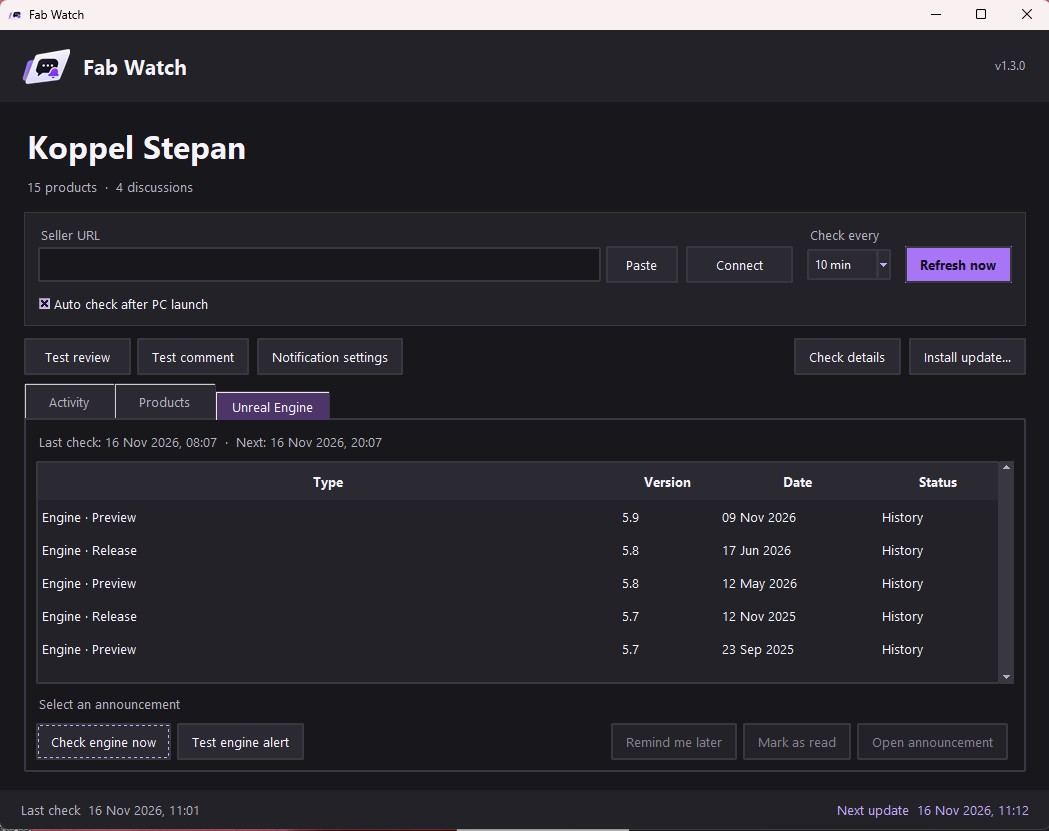
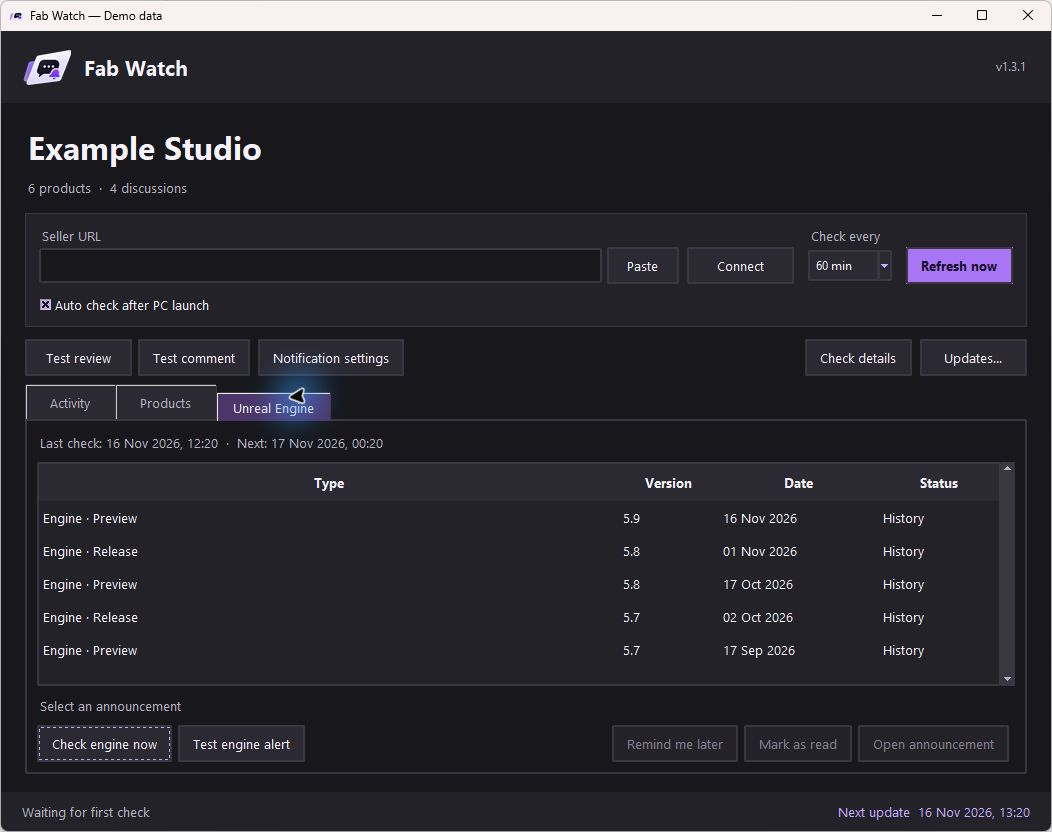
Replace personal screenshots with reproducible synthetic demo views

diff --git a/tools/demo.py b/tools/demo.py
@@ -1,0 +1,93 @@
+"""Real UI with synthetic temporary data for documentation; no scheduler/network work."""
+from datetime import datetime, timedelta, timezone
+from pathlib import Path
+import sys
+from tempfile import TemporaryDirectory
+import tkinter as tk
+from unittest.mock import patch
+
+sys.path.insert(0, str(Path(__file__).resolve().parents[1]))
+import app
+import runtime as rt
+import sources
+import updates
+from storage import Store, encode
+from notification_settings import open_settings
+
+
+def demo():
+    with TemporaryDirectory(prefix="fabwatch-demo-") as folder, \
+            patch.object(rt, "ROOT", Path(folder)), patch.object(rt, "scheduler"), \
+            patch.object(rt, "configure_engine"), patch.object(rt, "check"), \
+            patch.object(rt, "check_engine"), patch.object(updates, "latest", return_value=None), \
+            patch.object(sources, "resolve_seller", side_effect=ValueError("Demo mode does not connect to sources")):
+        stamp = datetime.now(timezone.utc)
+        seller = {"id": "demo-studio", "name": "Example Studio", "url": "https://www.fab.com/sellers/Example"}
+        rt.save_settings({"seller": seller, "interval": 60, "auto_check_after_launch": True,
+                          "schedule_anchor": stamp.isoformat()})
+        db = Store(rt.initialize(seller) / "monitor.sqlite")
+        titles = ["Modular Forest Village", "Stylized Adventure Props", "Dynamic Weather Toolkit",
+                  "Sci-Fi Interior Kit", "Procedural Terrain Materials", "Fantasy Environment Bundle"]
+        with db.db:
+            for i, title in enumerate(titles):
+                uid = f"sample-{i}"
+                db.db.execute("INSERT INTO products VALUES (?,?)", (uid, encode({
+                    "uid": uid, "title": title, "kind": "listings", "url": "https://www.fab.com"})))
+                if i < 4:
+                    db.set_source(uid, "forum_link", {"thread_id": i + 1})
+            db.set_meta("last_run_at", stamp.isoformat())
+            db.set_meta("last_success_at", stamp.isoformat())
+            for i, (kind, title, author, content, state) in enumerate([
+                ("new_review", titles[0], "Sample Buyer 01", "Great modular kit. Easy to customize and well organized!", "unread"),
+                ("new_comment", titles[2], "Sample Buyer 02", "Does the weather system support multiplayer projects?", "unread"),
+                ("new_comment", titles[2], "Example Studio", "Yes! The included guide explains the multiplayer setup.", "seller"),
+                ("new_review", titles[1], "Sample Buyer 03", "A useful collection for our prototype.", "read"),
+                ("new_comment", titles[3], "Sample Buyer 04", "Thanks for the material examples.", "history"),
+                ("new_review", titles[4], "Sample Buyer 05", "Clear documentation and flexible controls.", "history"),
+            ]):
+                event = {"kind": kind, "product": title, "author": author,
+                         "created_at": (stamp - timedelta(days=i)).isoformat(),
+                         "url": "https://www.fab.com", "silent": state == "history"}
+                if state == "seller":
+                    event.update(author_id=10, owner_id=10)
+                if kind == "new_review":
+                    event["review"] = {"content": content, "title": "Sample review", "rating": 5}
+                else:
+                    event["content_html"] = "<p>" + content + "</p>"
+                db.event(f"demo-{i}", event)
+            db.confirm_review("demo-3")
+        db.db.close()
+        engine = rt.ROOT / "engine"
+        engine.mkdir()
+        db = Store(engine / "monitor.sqlite", create=True)
+        with db.db:
+            db.set_meta("engine_last_success", stamp.isoformat())
+            for kind in ("engine_release", "engine_preview"):
+                db.set_meta(kind, {"checked": stamp.timestamp()})
+            for i, (kind, number) in enumerate([
+                ("engine_preview", "5.9"), ("engine_release", "5.8"),
+                ("engine_preview", "5.8"), ("engine_release", "5.7"), ("engine_preview", "5.7")]):
+                db.event(f"engine-demo-{i}", {"kind": kind, "version": number,
+                    "created_at": (stamp - timedelta(days=i*15)).isoformat(), "silent": True,
+                    "title": "Sample Unreal Engine announcement", "url": "https://forums.unrealengine.com",
+                    "message": "Demo data: a new version of Unreal Engine is available."})
+        db.db.close()
+        root = tk.Tk()
+        view = app.App(root)
+        root.title("Fab Watch — Demo data")
+        root.geometry("1050x800+200+120")
+        view.feed.selection_set("demo-0")
+        view.select()
+        mode = sys.argv[1] if len(sys.argv) > 1 else "main"
+        if mode in ("engine", "notifications"):
+            view.tabs.select(2)
+        if mode == "notifications":
+            def dialog():
+                open_settings(root, view.config, lambda values: None)
+            root.after(500, dialog)
+        root.after(600000, root.destroy)
+        root.mainloop()
+
+
+if __name__ == "__main__":
+    demo()

diff --git a/docs/RELEASING.md b/docs/RELEASING.md
@@ -37,8 +37,8 @@ publication; fix a bad release with a new version, not silent binary replacement
 Check the anonymous release/download URLs, asset digest and README links/screenshots.
 Exercise the updater against the real metadata without executing a downloaded file
 unless installation is part of the requested work. Recheck the repository contains
-no local data or machine paths. The supplied screenshots and author credit are
-intentional public examples, not secrets or runtime defaults.
+no local data or machine paths. Screenshots use synthetic examples. Author credits are intentional attribution,
+not runtime defaults.
 
 ## Maintenance routine
 
@@ -54,7 +54,7 @@ fake reviews, keyword spam or unsupported feature claims.
 ## License provenance
 
 MIT was selected by the project owner for public distribution. Original project
-assets are included; supplied screenshots show the author's public seller activity.
+assets are included; documentation screenshots show synthetic demo activity.
 Third-party text/trademarks retain their owners' rights. Runtime notices are copied
 by `tools/package_notices.py`. `licenses/Tcl-8.6.12.txt` is the unmodified license from
 https://raw.githubusercontent.com/tcltk/tcl/core-8-6-12/license.terms, matching the

diff --git a/docs/DEVELOPMENT.md b/docs/DEVELOPMENT.md
@@ -76,3 +76,12 @@ Windows CI builds before testing so the package regression is not skipped. The
 tests briefly create Tk windows/tray icons and do not install the app. Hosted CI
 coverage is not a manual clean-Windows installation test. Build/runtime license
 notices are collected by tools/package_notices.py. See [releasing](RELEASING.md).
+
+## Documentation screenshots
+
+Run `python tools/demo.py` for a real UI with synthetic Example Studio products,
+reviews and comments in a temporary directory. Network collection and scheduler
+mutations are mocked. The process does not start the reminder worker or tray.
+Optional arguments `engine` and `notifications` select those views. Closing the
+window removes temporary state. Capture the actual window with your screenshot tool.
+The demo data is not loaded by the packaged app and is never posted publicly.

diff --git a/docs/PRIVACY.md b/docs/PRIVACY.md
@@ -17,8 +17,8 @@ Local data is in `%LOCALAPPDATA%\FabWatch`:
 - `update-state.json` and `updates/`: app version-check cache and downloaded installers.
 - Logs, incident reports and backups: troubleshooting and explicit fresh-start archives.
 
-No profile/database/log is included in release packages. Public screenshots are
-author-supplied examples, not factory settings. Updating preserves your local data.
+No profile/database/log is included in release packages. Documentation screenshots use
+synthetic examples, not factory settings. Updating preserves your local data.
 Uninstalling leaves it available for reinstallation. Setup's explicit fresh-start
 option first archives existing profiles. Remove local data/backups yourself only
 if you intend to discard all history and confirmations.

diff --git a/README.md b/README.md
@@ -69,8 +69,9 @@ of source checks. Snooze persists across restarts. Windows banners include a
 
 ![Per-event notification settings for Fab comments, reviews and Unreal Engine versions](docs/screenshots/notifications.jpg)
 
-Screenshots show the author's public seller profile in v1.3.0 as a usage example.
-The current app may differ slightly. No seller data shown here is bundled as a default.
+Screenshots use synthetic demo data: Example Studio, fictional products and sample
+buyers/messages. Engine dates shown are examples, not a release calendar. No demo
+profile is bundled as an application default. Reproduce these views with tools/demo.py.
 
 ## Documentation
 

diff --git a/AGENTS.md b/AGENTS.md
@@ -62,7 +62,7 @@ respond to the user in their language.
   Do not delete a damaged database or silently create a new baseline to hide errors.
 - No tokens, local profiles or machine-specific absolute paths in source, fixtures,
   documentation or release archives. Use synthetic fixtures. Author credits and
-  owner-supplied public screenshots are intentional documentation examples.
+  synthetic demo screenshots are intentional documentation examples.
 - Keep dependencies small. Do not replace the native UI with a browser framework
   or add an always-running AI agent without a requirement for that change.
 

diff --git a/docs/FAQ.md b/docs/FAQ.md
@@ -62,8 +62,8 @@ identify the services it monitors; there is no claim of affiliation or endorseme
 
 Requests go to Fab and Epic forum endpoints to fetch public content, and to GitHub
 to check/download app releases. There is no app analytics or account registration.
-See [privacy](PRIVACY.md). Screenshots in the repository show the author's public
-seller profile as an example; that profile is not included in app defaults.
+See [privacy](PRIVACY.md). Screenshots in the repository use a fictional seller and synthetic example messages.
+No demo profile is included in app defaults.
 
 ## How can I help?
 

diff --git a/docs/HANDOFF.md b/docs/HANDOFF.md
@@ -3,7 +3,7 @@
 ## Current: 1.3.1 public GitHub release — 2026-11-16
 
 Canonical source: https://github.com/stkopp/fab-watch. Owner selected MIT and
-authorized publication of the supplied screenshots. Public docs, issue/PR templates,
+authorized publication; screenshots now use synthetic demo data. Public docs, issue/PR templates,
 FAQ, llms.txt and codemeta.json explain use and reuse. GitHub CI builds/tests Windows
 and tagged releases publish the installer and checksums only after successful checks.
 See docs/RELEASING.md for ongoing maintenance.
